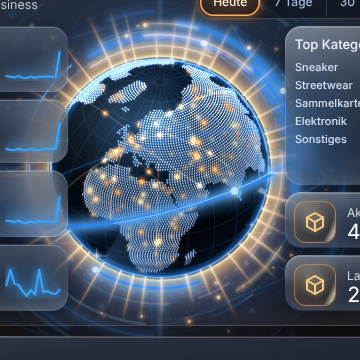
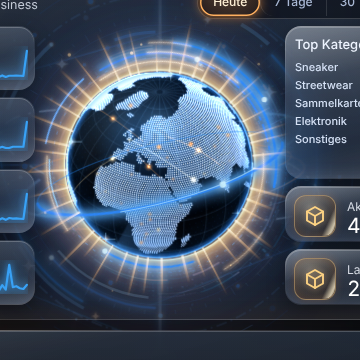
Globus: weniger und dezentere Stadtlichter und Goldfunken
- Stadtlichter 240 -> 70, kleiner
- Goldfunken 36 -> 10, ohne Leuchtfilter
- Handelsrouten 10 -> 5

Claude-Session: https://claude.ai/code/session_0194bcZ5PbUBuV3hzmwdGD96

diff --git a/public/fx.js b/public/fx.js
@@ -104,14 +104,14 @@
       this.ocean = oc;
     }
     var hot = [];
-    for (var i = 0; i < this.pts.length; i += Math.max(1, Math.round(this.pts.length / (opt.hd ? 240 : 52)))) {
+    for (var i = 0; i < this.pts.length; i += Math.max(1, Math.round(this.pts.length / (opt.hd ? 70 : 40)))) {
       hot.push({ p: this.pts[i], ph: Math.random() * 6.28, f: 0.8 + Math.random() * 1.8, red: Math.random() < 0.55 });
     }
     this.hot = hot;
     // Leuchtende Handelsrouten zwischen Städten (Längengrad, Breitengrad)
     var C = { ber: [13, 52], lon: [0, 51], par: [2, 49], mad: [-4, 40], rom: [12, 42], mos: [37, 56], ist: [29, 41], cai: [31, 30], lag: [3, 6], dub: [55, 25], del: [77, 28], nyc: [-74, 41], sao: [-46, -23], jnb: [28, -26], tok: [140, 36], sto: [18, 59] };
     var R2 = Math.PI / 180;
-    this.routes = opt.hd ? [['ber', 'nyc'], ['lon', 'dub'], ['par', 'lag'], ['rom', 'cai'], ['mad', 'sao'], ['mos', 'del'], ['ist', 'jnb'], ['sto', 'tok'], ['ber', 'mos'], ['lon', 'mad']].map(function (r, k) {
+    this.routes = opt.hd ? [['ber', 'nyc'], ['lon', 'dub'], ['rom', 'cai'], ['mos', 'del'], ['mad', 'sao']].map(function (r, k) {
       return { a: [C[r[0]][0] * R2, C[r[0]][1] * R2], b: [C[r[1]][0] * R2, C[r[1]][1] * R2], off: k * 0.37, sp: 0.18 + (k % 3) * 0.06, red: k % 3 !== 1 };
     }) : [];
   }
@@ -204,7 +204,7 @@
         y2 = y * ct - z * st; z2 = y * st + z * ct;
         if (z2 <= 0.1) continue;
         var tw = 0.35 + 0.65 * Math.max(0, Math.sin(t * h.f + h.ph));
-        var sz = s * (this.hd ? 0.055 : 0.045) * (0.6 + tw * 0.6);
+        var sz = s * (this.hd ? 0.04 : 0.04) * (0.6 + tw * 0.5);
         ctx.globalAlpha = Math.min(1, tw * z2 * 1.1);
         ctx.drawImage(h.red ? SPRITE_RED : SPRITE_GOLD, cx + x * R - sz / 2, cy - y2 * R - sz / 2, sz, sz);
       }
@@ -464,7 +464,7 @@
   }
   function setupGlobeGold() {
     var wrap = doc.querySelector('.v15-globe-wrap'); if (!wrap || wrap.querySelector('.cc-globe-gold')) return;
-    goldField(wrap, { C: 43, Y: 50, R: 33.7, sparks: 72, len0: 10, len1: 21, w0: .55, w1: .9 });
+    goldField(wrap, { C: 43, Y: 50, R: 33.7, sparks: 20, len0: 10, len1: 21, w0: .55, w1: .9 });
   }
   function setupGoldElsewhere() {
     var bot = doc.querySelector('.v15-bot-frame'); if (bot && !bot.querySelector('.cc-globe-gold')) goldField(bot, { R: 18.5, rays: 32, len0: 2.5, len1: 6, w0: .35, w1: .55, sparks: 14, sparkR: .8, arcW: .7, rim: true, cls: 'cc-gold-soft', seed: 21 });

diff --git a/public/sw.js b/public/sw.js
@@ -1,4 +1,4 @@
-const CACHE='rv-studio-v20-5';
+const CACHE='rv-studio-v20-6';
 const FILES=['/','/index.html','/app.css','/dashboard.css','/fx.css','/ref.css','/theme.css','/stock.css','/pages.css','/perf.css','/app.js','/dashboard.js','/fx.js','/demo.js',
   '/vendor/jszip.min.js','/fonts/command-sans-regular.otf','/fonts/command-sans-bold.otf',
   '/rv-logo.jpg','/rv-ai-mascot.png','/rv-robot-premium.png','/rv-white.png',

diff --git a/public/perf.css b/public/perf.css
@@ -49,3 +49,5 @@ html.cc-lite .v15-globe-wrap .cc-gold-rays { animation:cc-spin 90s linear infini
 .v15-globe-wrap .cc-globe-gold { animation:cc-goldfield2 4.2s ease-in-out infinite !important; }
 @keyframes cc-goldfield2 { 0%,100% { opacity:.85; } 55% { opacity:1; } }
 .v15-globe-wrap .cc-ray { opacity:1; }
+/* Globus: Funken dezenter */
+.v15-globe-wrap .cc-gold-spark { filter:none !important; opacity:.7; }
